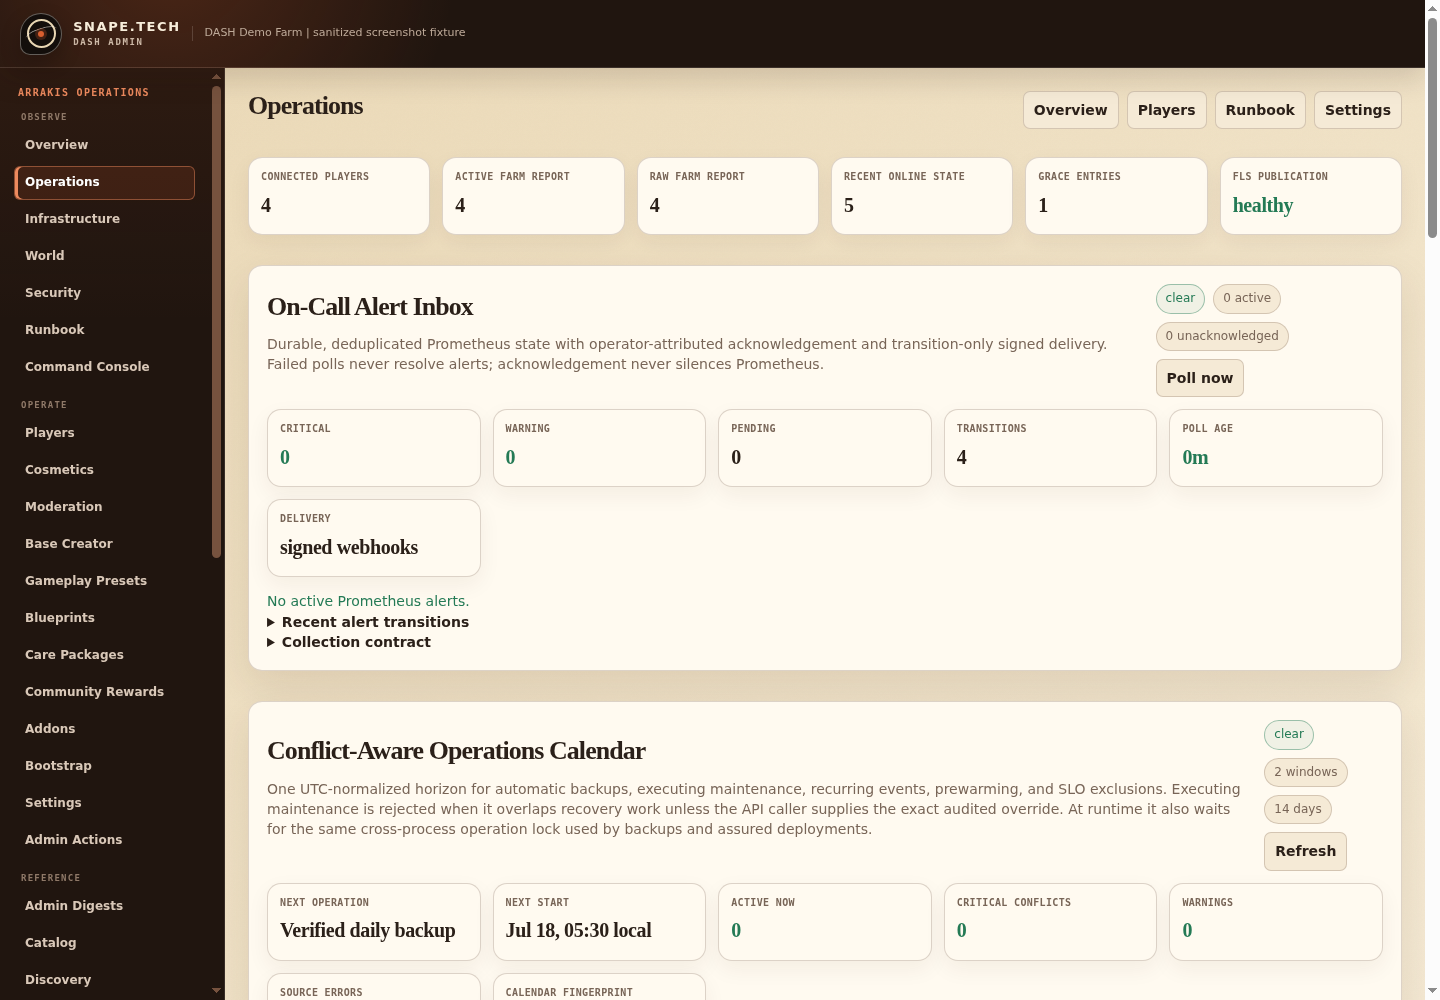
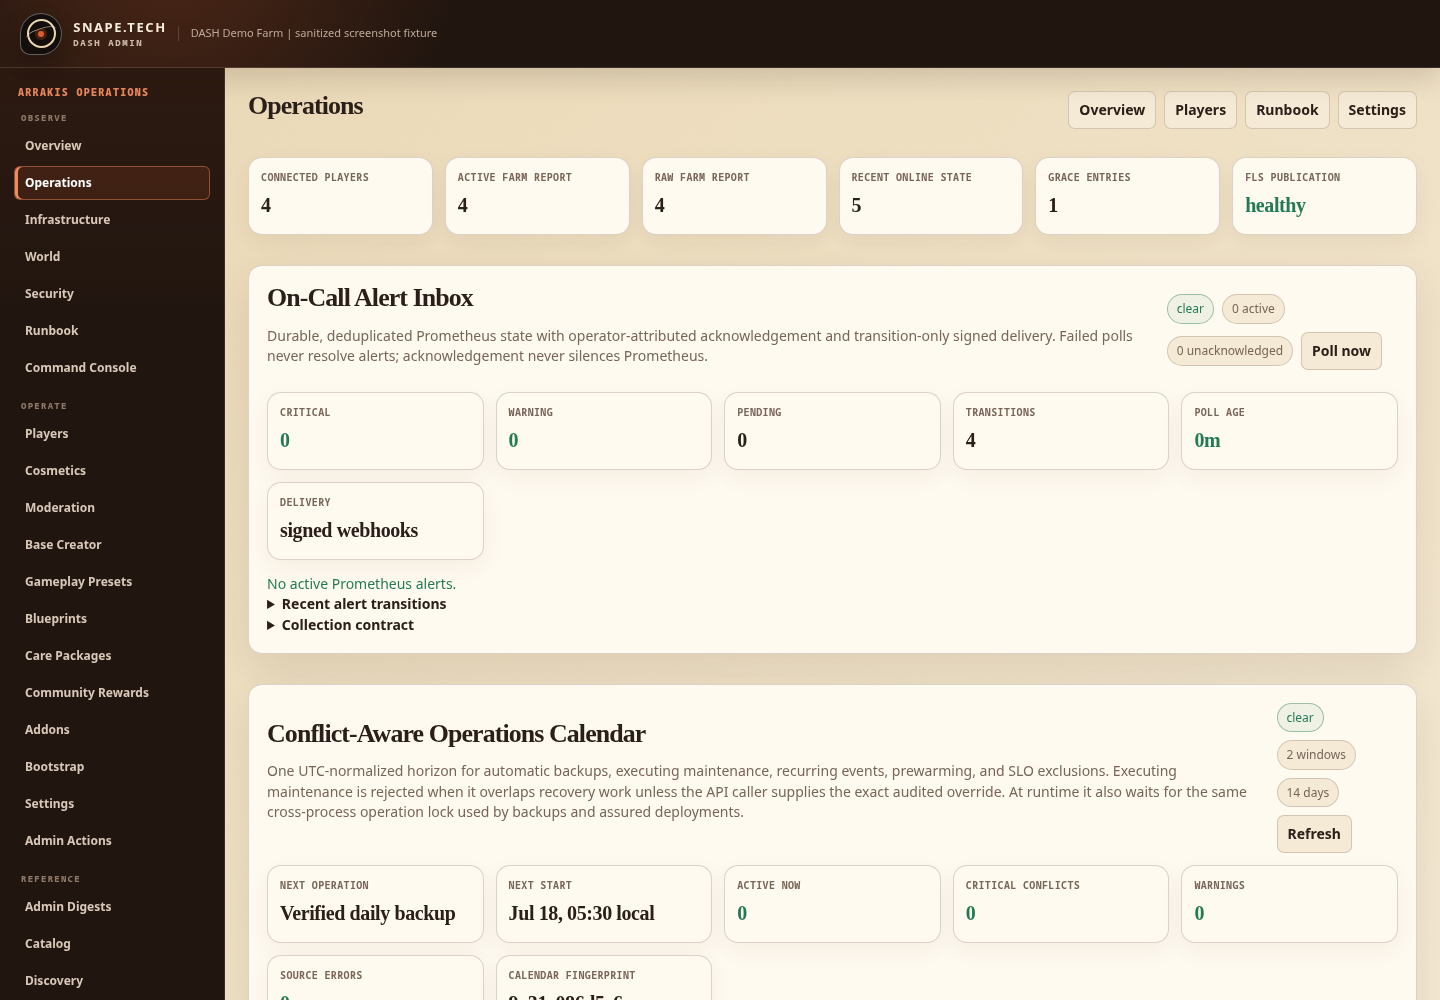
security: refresh Dune utility libpq on hosted CI (#15)
* security: patch Dune utility libpq and use hosted CI

* security: build utility overlay from exact local base

* security: update Dune PostgreSQL utility packages

diff --git a/docs/runtime-security-images.md b/docs/runtime-security-images.md
@@ -1,5 +1,42 @@
 # Qualified game runtime images
 
+## Dune utility PostgreSQL client library update
+
+The Dune utility image bases for vendor builds `2162777` and `2173753` use
+Alpine 3.21 and carry PostgreSQL `17.11-r0` packages. The November 2026
+PostgreSQL security release is available as Alpine `17.12-r0`. Build each
+candidate from the exact local base image ID. The helper resolves the source
+tag once, creates a temporary local alias for that immutable ID because
+BuildKit does not accept a bare image ID in `FROM`, and disables image pulls.
+It refuses to overwrite candidate tags and preserves the base image's user,
+working directory, and entrypoint. It upgrades and verifies
+`postgresql17`, `postgresql17-client`, and `libpq` together because Trivy
+reports PostgreSQL CVEs against both the server and client packages.
+
+The local base images are not published to a registry, so the package-only
+image build runs on a trusted Docker host that already has each base. Repository
+validation and source scans use the compatible public GitHub-hosted runner.
+Keep candidates separate from live references until the exact image IDs pass a
+Trivy scan with zero HIGH/CRITICAL findings and no scan errors, `python`
+imports `psycopg2` successfully, the Dune utility safety suite passes, and a
+fresh rollback backup is verified. Promote only the matching utility services
+with `--no-deps`; preserve all game worker container IDs and images.
+
+Example candidate builds:
+
+```sh
+scripts/build-db-utils-libpq-security-image.sh \
+  snape/dune-db-utils:python-security-2162777 \
+  snape/dune-db-utils:python-security-2162777-postgresql-17.12
+scripts/build-db-utils-libpq-security-image.sh \
+  snape/dune-db-utils:python-security-2173753 \
+  snape/dune-db-utils:python-security-2173753-postgresql-17.12
+```
+
+The Compose defaults reference these version-bound candidates. The build helper
+does not start or recreate containers; scan and qualify each exact image before
+using it.
+
 ## Control-plane package overlays
 
 For the November 2026 Kerberos/libxslt advisory wave, exact-base candidates
